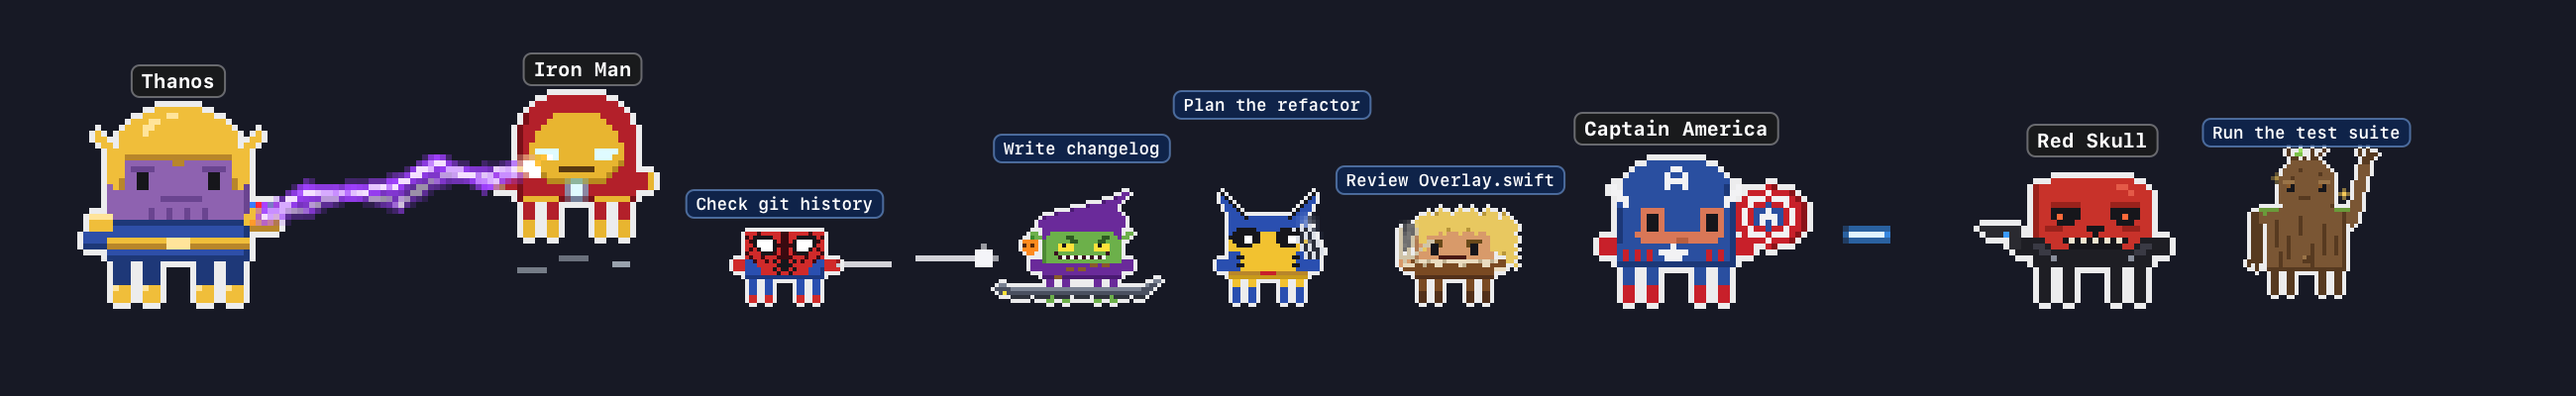
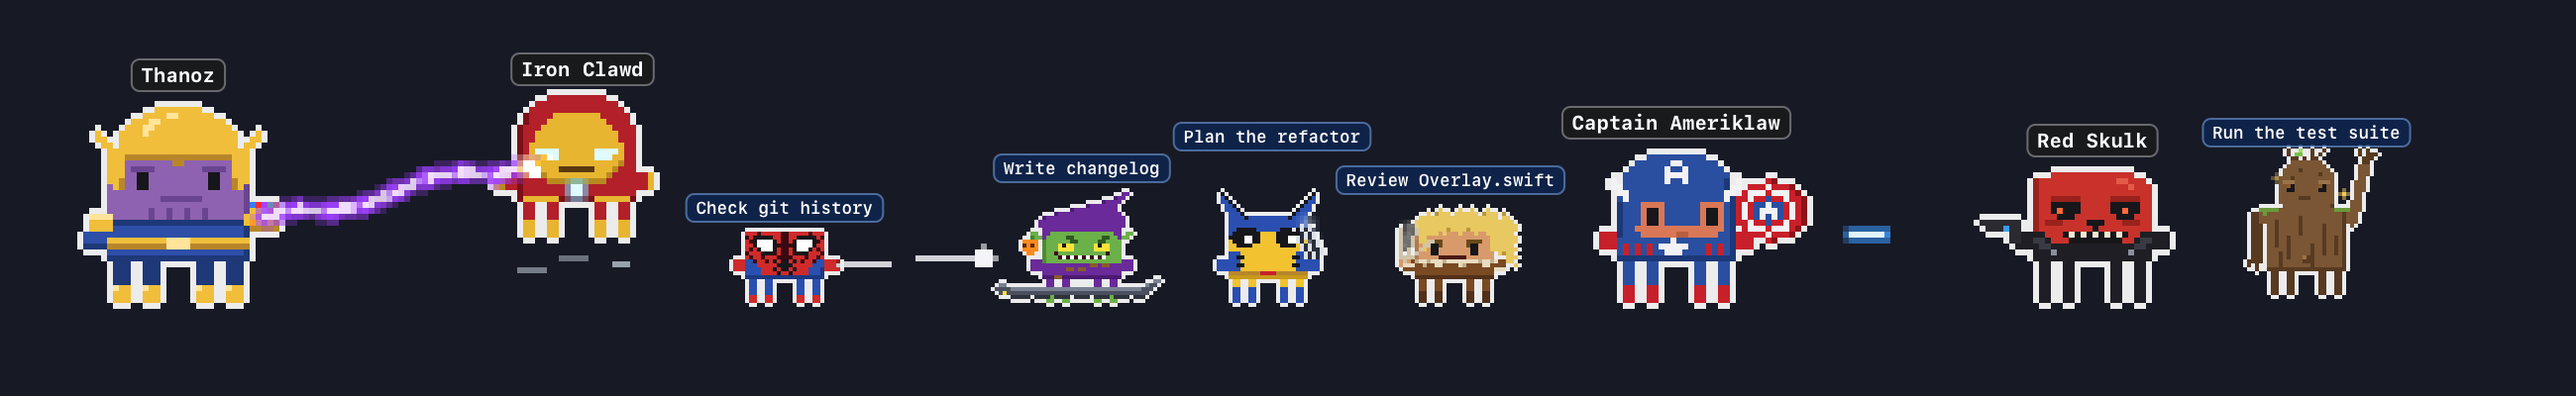
docs: re-render every picture with the parody names
The roster, places, desktop strip, social preview and the window shot
come fresh from Clawd Clash: Captain Ameriklaw, Iron Clawd and Thorr at
Clawvengers Tower, Red Skulk on Codex. window-avengers-tower.png is now
window-clawvengers-tower.png. The icon keeps its picture, as the
Clawvel designs are unchanged.

diff --git a/README.md b/README.md
@@ -105,7 +105,7 @@ Every shooter has its own shots: Iron Clawd's and Captain Clawvel's blasts, Cycl
 It opens in a window by default (switch to the desktop from the menu): the whole crew in a scene, with a card for every session: its project, what it's doing right now, your last prompt, its last reply, and its agents in a little tree. When no AI is running, the window steps aside, and it comes back when one starts.
 
 <p align="center">
-  <img src="docs/window-avengers-tower.png" alt="Window mode at Clawvengers Tower: Captain Ameriklaw with Iron Clawd and Thorr, Red Skulk on Codex, Lokee on Gemini CLI" width="760">
+  <img src="docs/window-clawvengers-tower.png" alt="Window mode at Clawvengers Tower: Captain Ameriklaw with Iron Clawd and Thorr, Red Skulk on Codex, Lokee on Gemini CLI" width="760">
 </p>
 
 The scene is set **where the first session's character belongs**: Clawvengers Tower for Iron Clawd, the Sanctum Sanctorum for Doctor Stranger, Wakandu for Black Panthah, Titan for Thanoz. 43 places, each with something moving: windows lighting up and the Clawjet crossing the skyline behind Clawvengers Tower, the rainbow bridge shimmering at Asgaard, the Sakkar crowd cheering, Nowhere's neon flickering, rain over Hell's Kitchen, Gloomveria in a lightning storm, the Chitari pouring out of the portal at the Battle of New York, Dormamoo's face looming in the Darker Dimension, pterodactyls over the Savage Lands, Galacticus devouring a planet past the Worldship's viewport, the Time Variation Agency's clock ticking, Miss Seconds and all, a hologram turning in Tony Stork's Workshop, cabs and pigeons in New York City, lanterns over Ta Loh.
